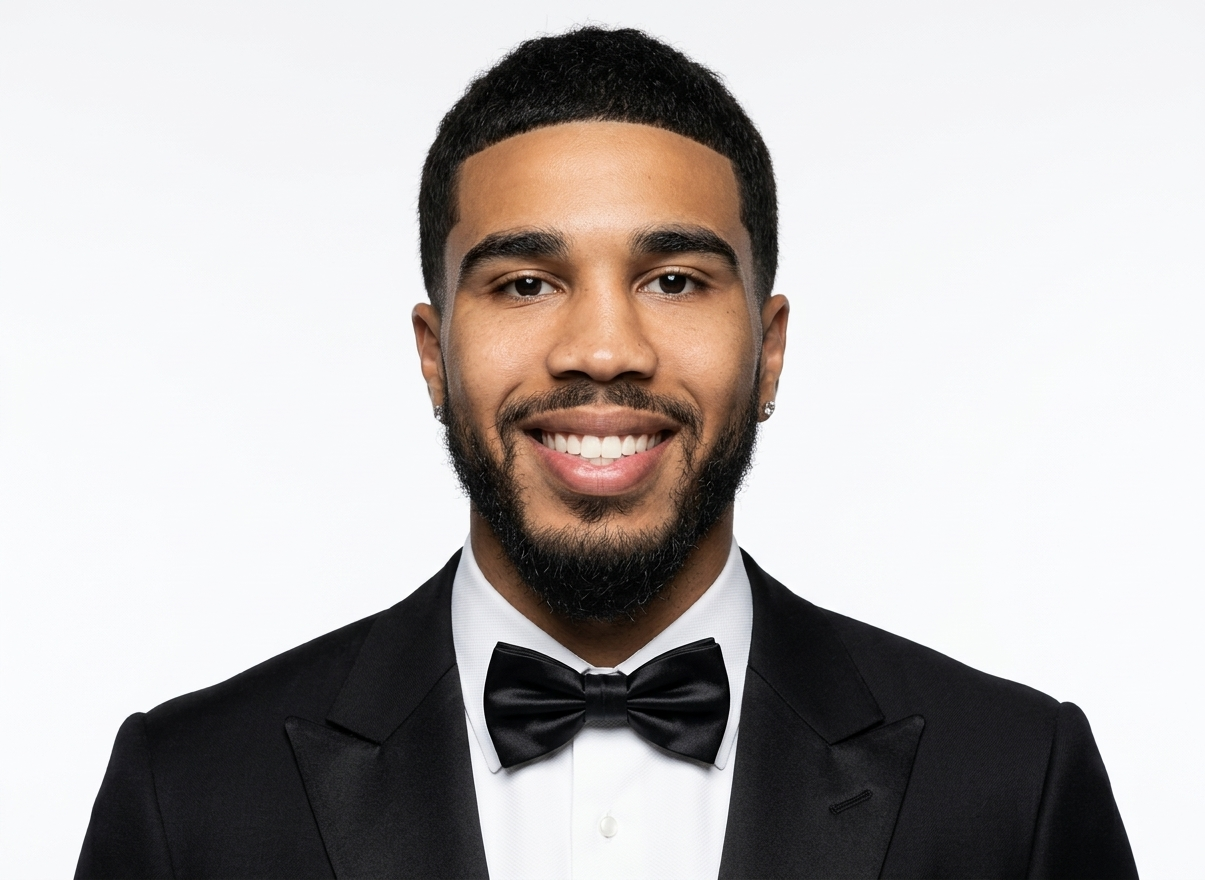
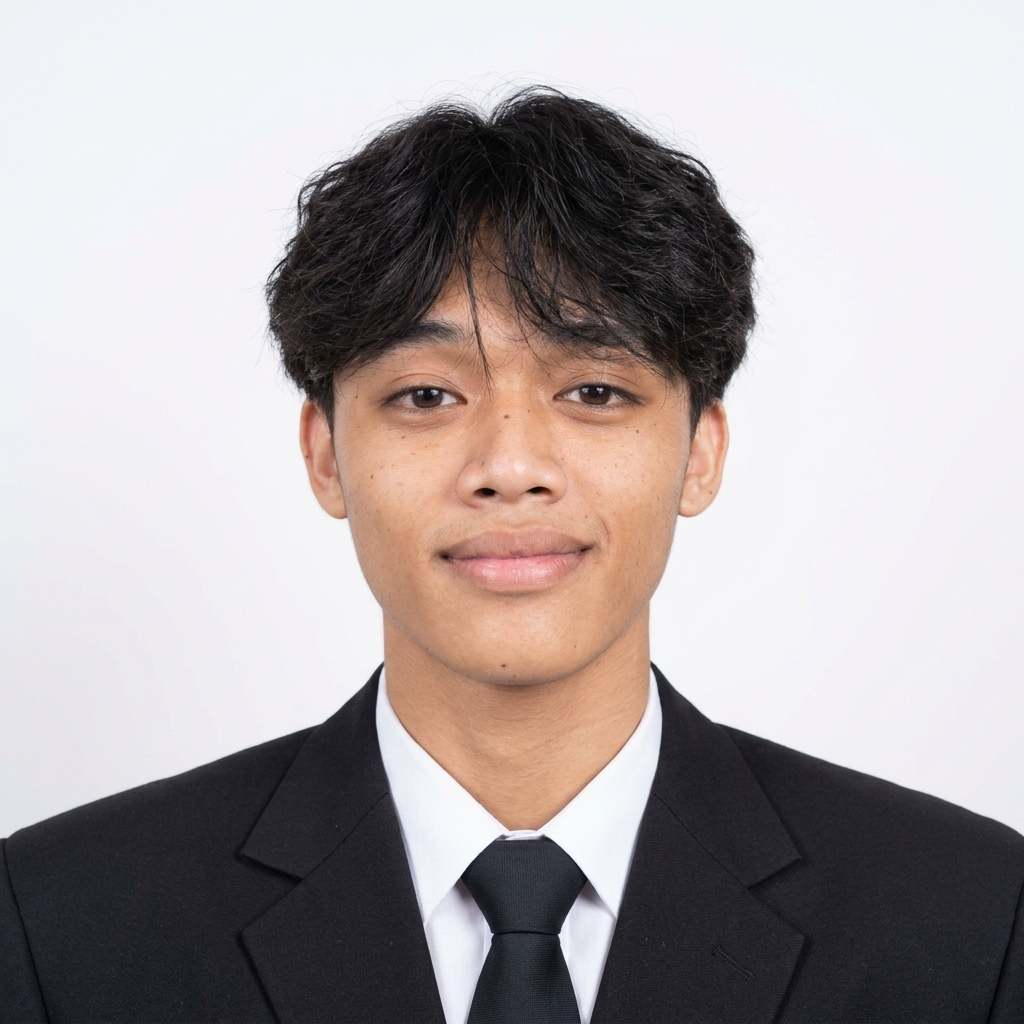
.

diff --git a/css/novel-page.css b/css/novel-page.css
@@ -538,7 +538,17 @@ a {
   align-items: flex-start;
   gap: 20px;
   margin: 20px 30px;
-  background-color: var(--background);
+  background-color: var(--card-background);
+  border-radius: 8px;
+}
+
+.header .subtitle {
+  font-family: var(--font-body);
+  font-size: 1.2rem;
+  font-style: italic;
+  color: var(--muted-foreground);
+  margin-top: -10px;
+  margin-bottom: 15px;
 }
 
 /* book cover */
